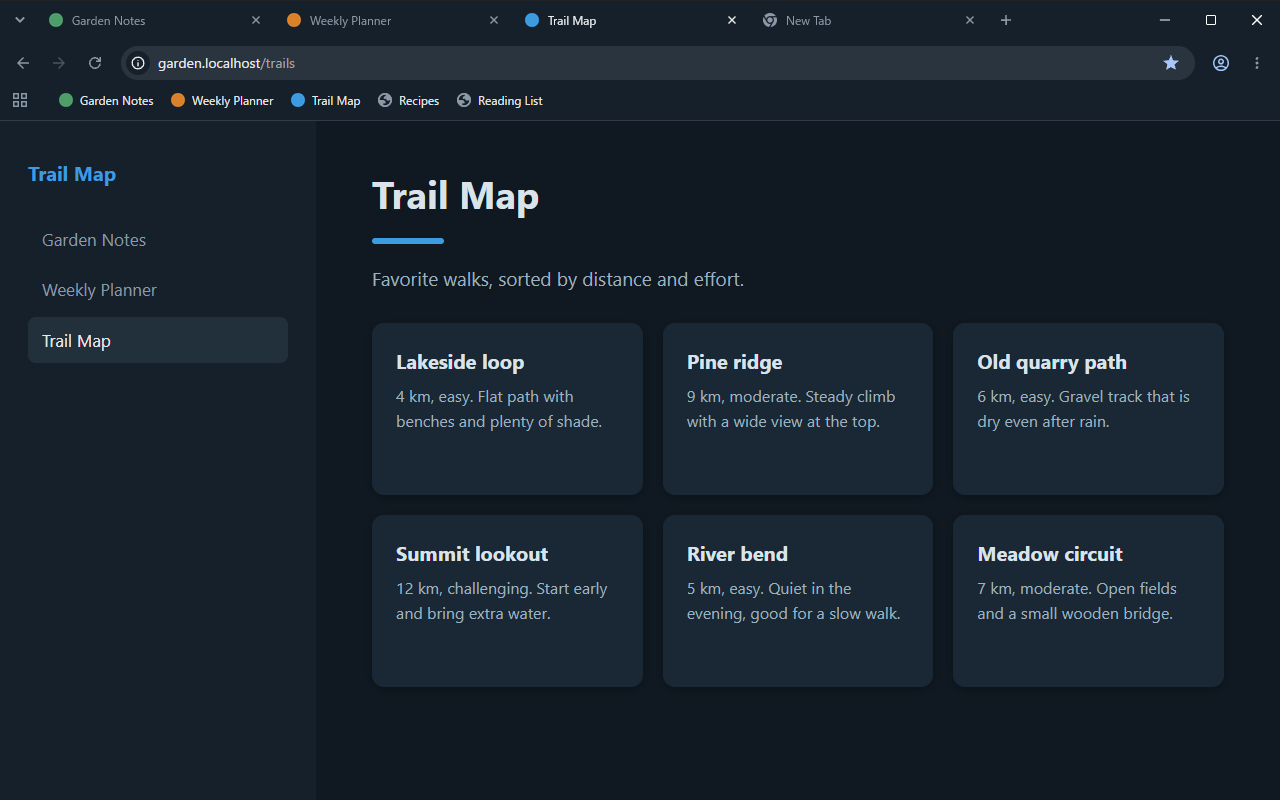
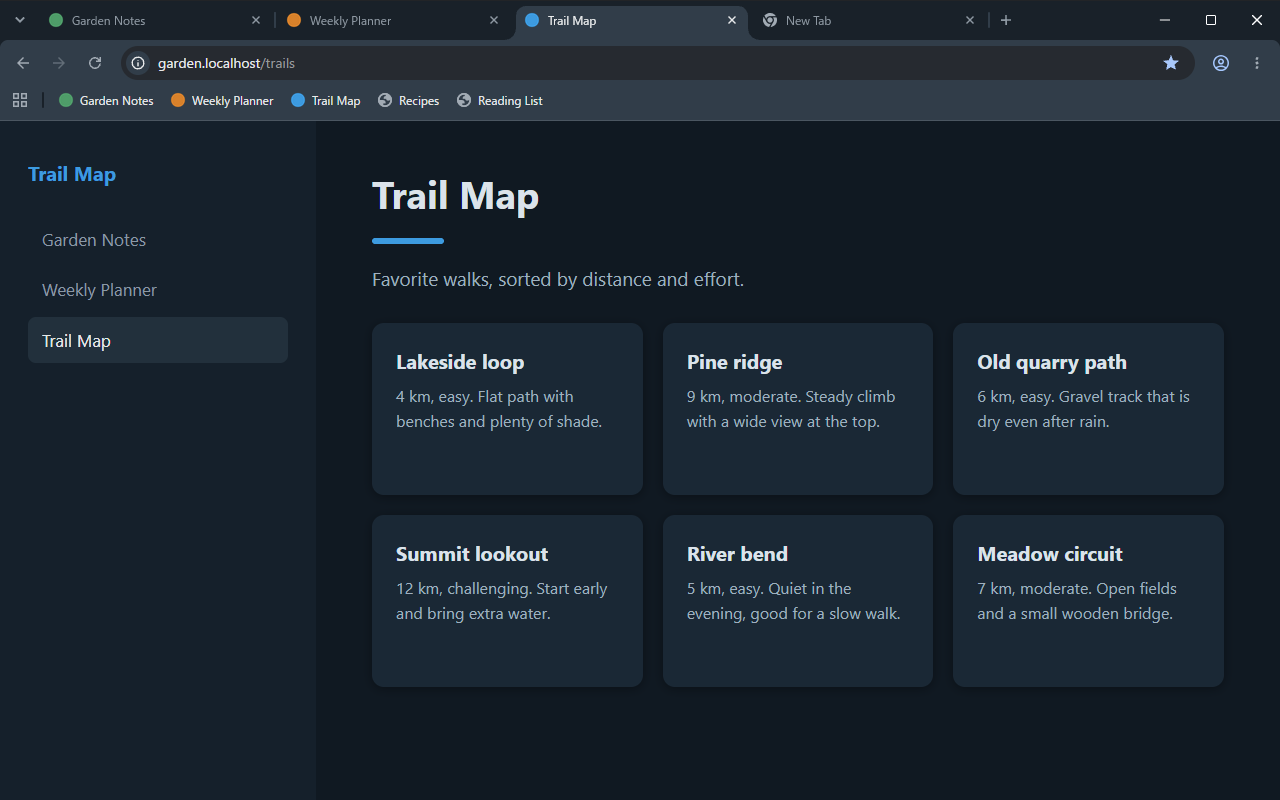
v1.0.1 リリース
アクティブなタブとツールバーを明るくして区別しやすくし、全体の彩度を下げた。
検査値・文書・掲載画像も新しい配色に合わせた。

Changed region(s): [[0.0, 0.0, 1.0, 0.1562]]

diff --git a/scripts/screenshots.ts b/scripts/screenshots.ts
@@ -108,7 +108,7 @@ function runs(r: Raw, axis: "row" | "col", at: number, minLen = 6): string {
 
 // 各画像で「枠」「ツールバー」の色が既定色のままでないことを画素で確かめる（領域は撮影位置が固定なので固定値）
 type Check = { name: string; box: [number, number, number, number]; color: number[]; min: number };
-const FRAME = [0x15, 0x20, 0x2b], TOOLBAR = [0x15, 0x20, 0x2b];
+const FRAME = [0x19, 0x21, 0x29], TOOLBAR = [0x31, 0x3d, 0x49];
 const checks: Record<string, Check[]> = {
   "screenshot-01.png": [
     { name: "枠(タブ列の空き)", box: [1100, 8, 1140, 28], color: FRAME, min: 0.95 },

diff --git a/AGENTS.md b/AGENTS.md
@@ -1,13 +1,13 @@
 # Dim Dark Blue（Chrome ブラウザテーマ）
 
 - 配色の正本は `manifest.json` の `theme.colors`。色キーは Chromium `chrome/browser/themes/browser_theme_pack.cc` の `kOverwritableColorTable` にあるものだけ（無効キーは Chrome が無言で無視する）。配色表は README.md にも書いているので、変更時は両方を揃える。
-- `toolbar` は `frame` と同色にする（Brave のピン留めタブの枠線は `frame` と `toolbar` の明るさから自動で決まり、同色のとき暗くなる）。
+- `toolbar` は `frame` より明るくし、アクティブなタブを区別する（コントラスト比 約1.5。Chrome 既定は #3C3C3C と #1F2020 で約1.48）。Brave のピン留めタブの枠線は両者の明るさから自動で決まり、この配色では明るくなる。
 - `button_background` は使わない（Windows の右上の3ボタンの背景に重なり、枠 `frame` と色がずれる）。
 - 検証: `bun --no-env-file scripts/check.ts`（概要文言・許可キー・RGB 範囲・文字コントラスト 4.5 以上・アイコン実寸）。
 - パッケージ: `bun --no-env-file scripts/pack.ts` で `DimDarkBlue.zip`（manifest.json・_locales・icons・LICENSE のみ）。名前は manifest に直書き、概要は `_locales/{en,ja}` に置く（ストアの掲載情報を日英に分けるため）。ZIP は git に入れない。
 - 版（`manifest.json` の `version`）は通常作業で上げない。上げるのは `/vava` の依頼時だけ。
 - ストア用 CI は未導入（CWS の item ID が未取得）。掲載文の下書きは `store/`。掲載画像は `store/images/`（`en/` と `ja/` に `screenshot-01〜03.png`＝1280x800・アルファなし、言語共通の `tile-small.png`＝440x280）。
-- 掲載画像の再撮影: `bun --no-env-file scripts/screenshots.ts`（Windows・Chrome・Bun 専用、依存ゼロ。言語指定なしは en・ja を順に、言語ごとに別の一時プロファイルの Chrome で撮る。`--locale=en|ja` で 1 言語だけ。タイルは en のときだけ作り直す。ja は `--lang=ja --accept-lang=ja`、HTML の lang・フォント・タブ名・ブックマーク名を日本語にし、撮影中に location.href・navigator.languages・カード文のはみ出しを CDP で実測する）。一時プロファイルの Chrome に一時置き場のテーマのコピーを CDP の `Extensions.loadUnpacked`（`--remote-debugging-pipe`。Chrome 158 では `--load-extension` が効かない）で読み込み、その窓だけを PrintWindow で撮る。窓は画面外に置く。撮影後は枠とツールバー（どちらも `#15202B`）を画素で確かめる（`--verify` で既存画像の寸法・アルファ・画素、タイルの副題のコントラスト比 4.5 以上、icon-128.png の四隅のアルファ 0 を再検査）。中身は 01 新しいタブ（履歴に残らない data: URL のタブを使い、「よく見るサイト」に自作ページを出さない）、02 `http://garden.localhost/`（外部通信は `MAP * ~NOTFOUND` で遮断し、提案枠の日本語を出さない。`--host-resolver-rules` で 127.0.0.1 とポートを隠す）の自作ページ、03 暗めの自作ページ＋ブックマークバー（Ctrl+Shift+B を送る）。出力される一時フォルダー（`ddb-shot-*`）は Prunlet CLI で片付ける。画像は目視確認してから採用する。
+- 掲載画像の再撮影: `bun --no-env-file scripts/screenshots.ts`（Windows・Chrome・Bun 専用、依存ゼロ。言語指定なしは en・ja を順に、言語ごとに別の一時プロファイルの Chrome で撮る。`--locale=en|ja` で 1 言語だけ。タイルは en のときだけ作り直す。ja は `--lang=ja --accept-lang=ja`、HTML の lang・フォント・タブ名・ブックマーク名を日本語にし、撮影中に location.href・navigator.languages・カード文のはみ出しを CDP で実測する）。一時プロファイルの Chrome に一時置き場のテーマのコピーを CDP の `Extensions.loadUnpacked`（`--remote-debugging-pipe`。Chrome 158 では `--load-extension` が効かない）で読み込み、その窓だけを PrintWindow で撮る。窓は画面外に置く。撮影後は枠 `#192129`・ツールバー `#313D49` を画素で確かめる（`--verify` で既存画像の寸法・アルファ・画素、タイルの副題のコントラスト比 4.5 以上、icon-128.png の四隅のアルファ 0 を再検査）。中身は 01 新しいタブ（履歴に残らない data: URL のタブを使い、「よく見るサイト」に自作ページを出さない）、02 `http://garden.localhost/`（外部通信は `MAP * ~NOTFOUND` で遮断し、提案枠の日本語を出さない。`--host-resolver-rules` で 127.0.0.1 とポートを隠す）の自作ページ、03 暗めの自作ページ＋ブックマークバー（Ctrl+Shift+B を送る）。出力される一時フォルダー（`ddb-shot-*`）は Prunlet CLI で片付ける。画像は目視確認してから採用する。
 - シークレット窓にはこのテーマが適用されない（Chrome 158・CDP の unpacked 読み込みで実測。ストアから入れた場合は未確認。枠が既定の `#1F2020` のまま）ため、掲載画像にシークレットは使わない（撮影スクリプトに確認処理は残していない）。
 - Twitter / X の商標語は manifest・ストア文に入れない。ロゴやそれに似た図形もアイコンに使わない。
 - permissions・JS・HTML は追加しない（画像なしの colors テーマ）。

diff --git a/CHANGELOG.md b/CHANGELOG.md
@@ -5,8 +5,12 @@
 
 ## [Unreleased]
 
+## [1.0.1] - 2026-11-25
+
 ### Changed
 
+- アクティブなタブとツールバーを、非アクティブなタブより明るい色にして区別しやすくした
+- 全体の彩度を少し下げた
 - テーマの概要を英語と日本語に対応（既定は英語）
 
 ## [1.0.0] - 2026-11-25
